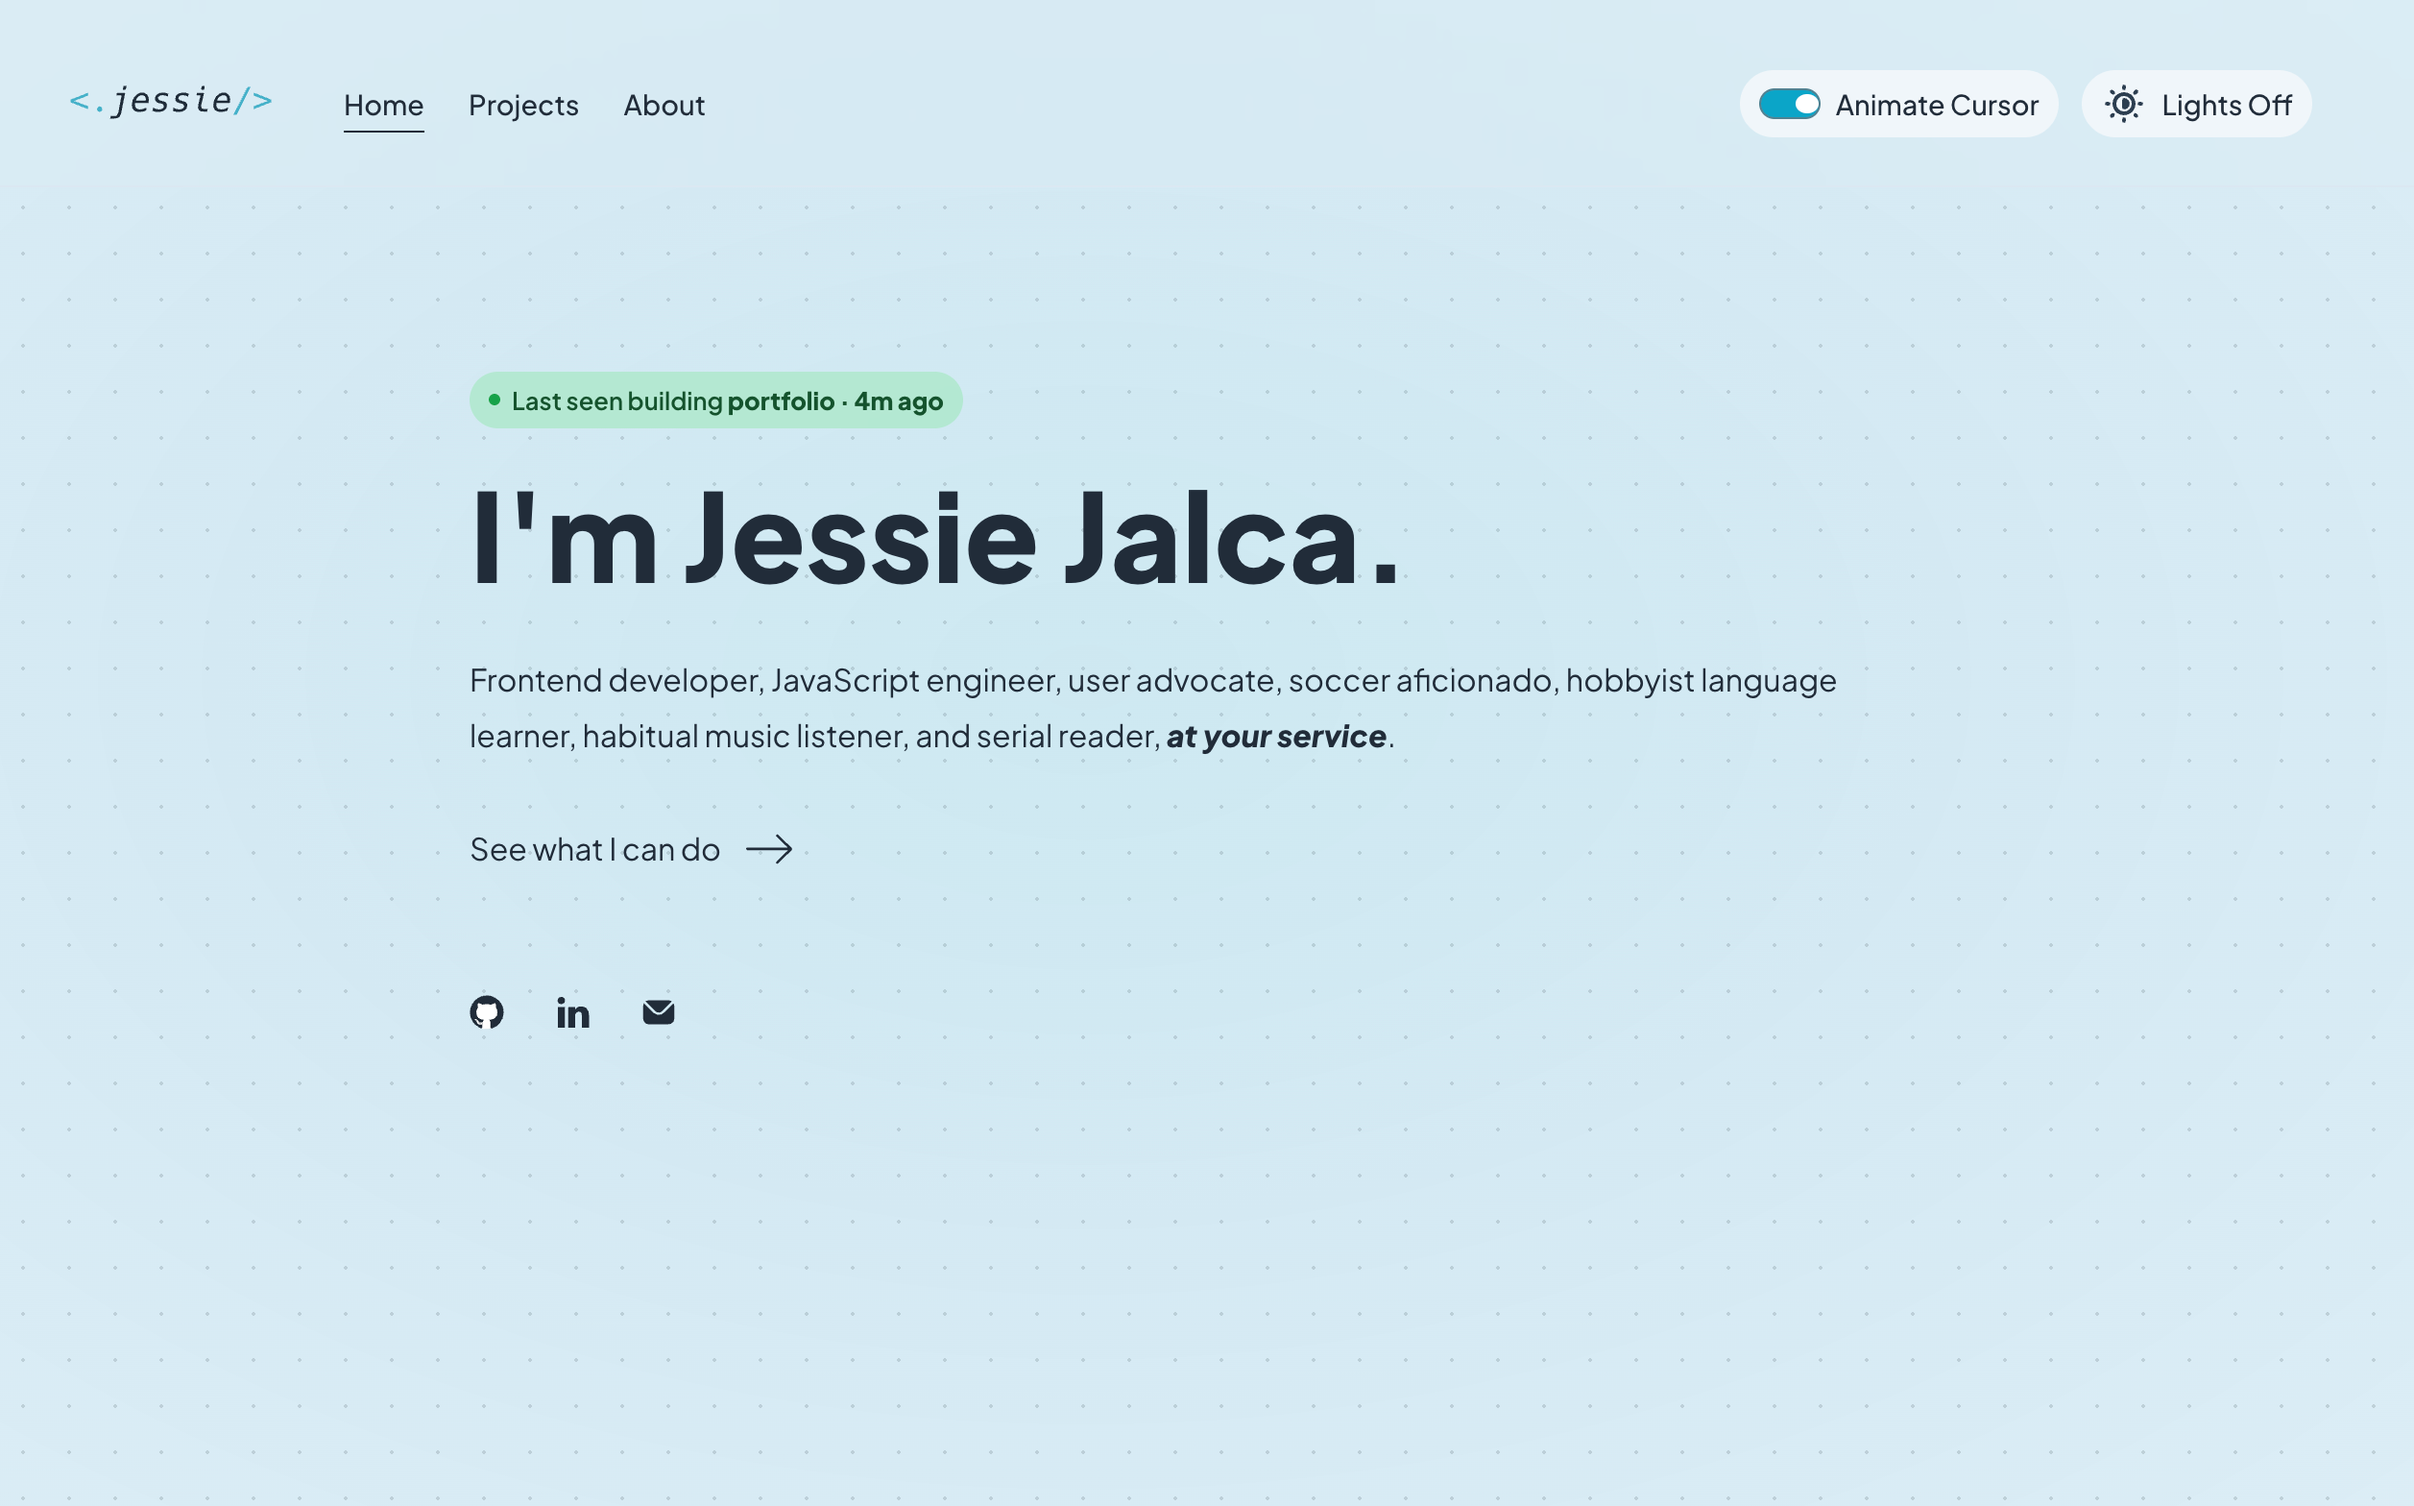
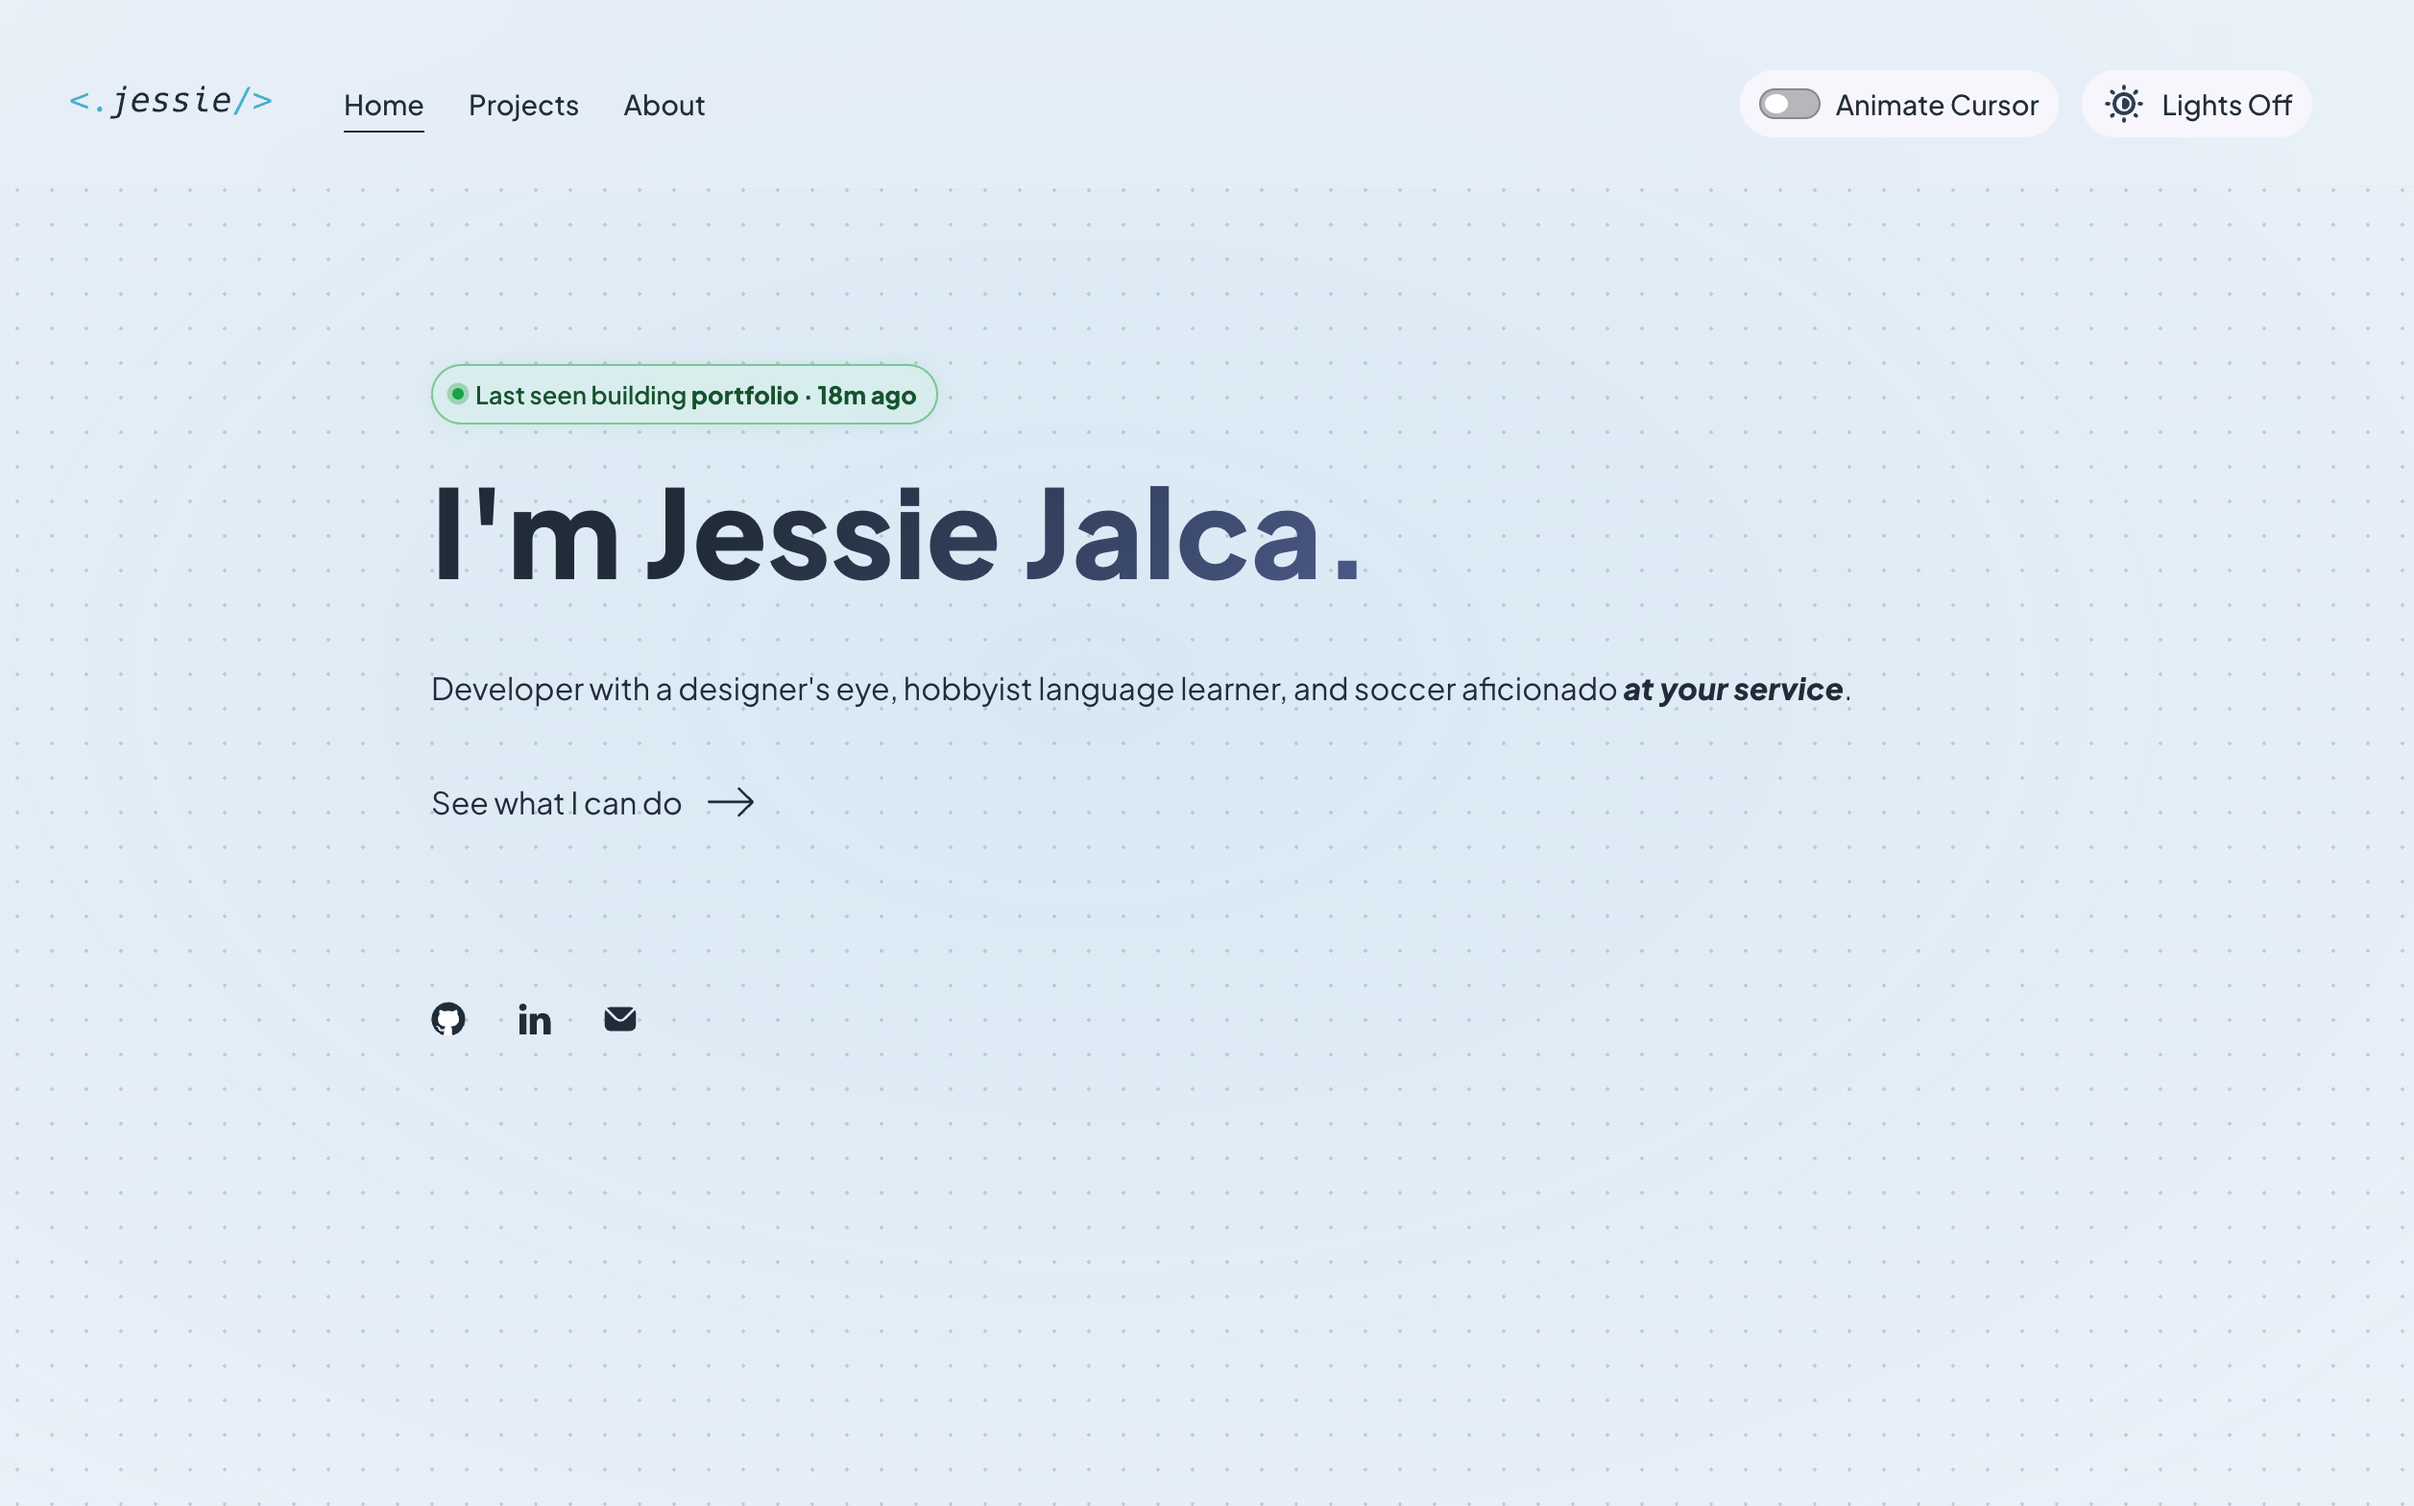
chore: Replace old screenshots of portfolio

diff --git a/README.md b/README.md
@@ -1,18 +1,17 @@
 # Personal Portfolio
 
-![Screenshot of my portfolio homepage.](./screenshot.jpg)
+![Screenshot of my portfolio homepage.](./public/ss-portfolio.png)
 
 [Live Site URL](https://jessiejalca.dev)
 
 ## Table of contents
 
-- [Personal Portfolio](#personal-portfolio)
-  - [Table of contents](#table-of-contents)
-  - [Built with](#built-with)
-  - [Favorite Features](#favorite-features)
-    - [Dark Mode](#dark-mode)
-  - [Continued development](#continued-development)
-  - [Author](#author)
++ [Table of contents](#table-of-contents)
++ [Built with](#built-with)
++ [Favorite Features](#favorite-features)
+  + [Dark Mode](#dark-mode)
++ [Continued development](#continued-development)
++ [Author](#author)
 
 ## Built with
 
